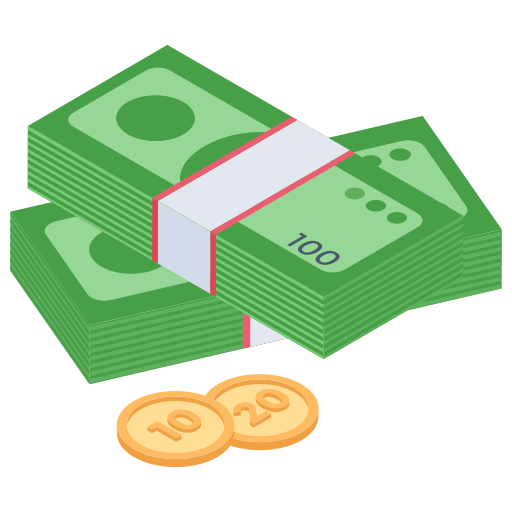
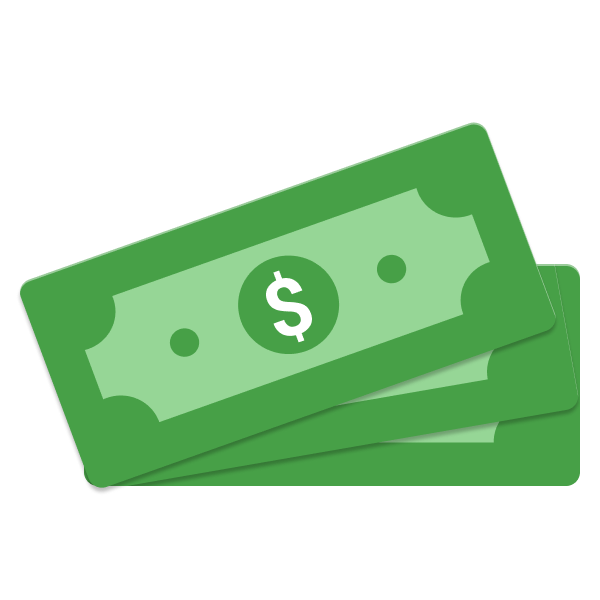
tolboriin zurag bolon nersiig oorchlov

diff --git a/pages/khyanalt/zg/[sessionId].js b/pages/khyanalt/zg/[sessionId].js
@@ -106,7 +106,7 @@ function TulburiinDelgerenguiTailan({ token }) {
             case "khaan":
               ugugdul.push({
                 ner: "Карт",
-                icon: "/cartniiZurag.png",
+                icon: "/card.png",
                 dun: element.niitDun,
                 too: element.niitToo,
                 khuvi: (Number(element.niitDun) / Number(niitDun)) * 100,
@@ -159,7 +159,7 @@ function TulburiinDelgerenguiTailan({ token }) {
               break;
             case "qpay":
               ugugdul.push({
-                ner: element._id,
+                ner: "Гадаа QR",
                 icon: "https://qpay.mn/q/img/q.png",
                 dun: element.niitDun,
                 too: element.niitToo,
@@ -168,7 +168,7 @@ function TulburiinDelgerenguiTailan({ token }) {
               break;
             case "qpayUridchilsan":
               ugugdul.push({
-                ner: "QPay QR",
+                ner: "Дотор QR",
                 icon: "https://qpay.mn/q/img/q.png",
                 dun: element.niitDun,
                 too: element.niitToo,
@@ -223,7 +223,7 @@ function TulburiinDelgerenguiTailan({ token }) {
               break;
             case "tseneglelt":
               ugugdul.push({
-                ner: "Цэнэглэлт",
+                ner: "Хэтэвч",
                 icon: "https://static.vecteezy.com/system/resources/previews/012/487/845/original/3d-wallet-floating-in-hand-isolated-on-transparent-business-man-holding-purple-purse-icon-mobile-banking-online-service-cashback-refund-loan-concept-saving-money-wealth-cartoon-3d-render-png.png",
 
                 dun: element.niitDun,
@@ -233,7 +233,7 @@ function TulburiinDelgerenguiTailan({ token }) {
               break;
             case "PosBelen":
               ugugdul.push({
-                ner: "Aндройд ПОС бэлэн",
+                ner: "ПОС бэлэн",
                 icon: "/androidPosBelen.png",
 
                 dun: element.niitDun,
@@ -243,7 +243,7 @@ function TulburiinDelgerenguiTailan({ token }) {
               break;
             case "PosCard":
               ugugdul.push({
-                ner: "Aндройд ПОС карт",
+                ner: "ПОС Карт",
                 icon: "/androidpooos.png",
 
                 dun: element.niitDun,
@@ -253,7 +253,7 @@ function TulburiinDelgerenguiTailan({ token }) {
               break;
             case "PosKhariltsakh":
               ugugdul.push({
-                ner: "Aндройд ПОС дансаар",
+                ner: "ПОС Данс",
                 icon: "/androidDansPos.png",
 
                 dun: element.niitDun,

diff --git a/components/pageComponents/zogsool/TulburiinDelgerenguiTailan.js b/components/pageComponents/zogsool/TulburiinDelgerenguiTailan.js
@@ -199,7 +199,7 @@ function TulburiinDelgerenguiTailan(
             break;
           case "qpay":
             ugugdul.push({
-              ner: element._id,
+              ner: "Гадаа QR",
               icon: "https://qpay.mn/q/img/q.png",
               dun: element.niitDun,
               too: element.niitToo,
@@ -208,7 +208,7 @@ function TulburiinDelgerenguiTailan(
             break;
           case "qpayUridchilsan":
             ugugdul.push({
-              ner: "QPay QR",
+              ner: "Дотор QR",
               icon: "https://qpay.mn/q/img/q.png",
               dun: element.niitDun,
               too: element.niitToo,
@@ -236,7 +236,7 @@ function TulburiinDelgerenguiTailan(
 
           case "tseneglelt":
             ugugdul.push({
-              ner: "Цэнэглэлт",
+              ner: "Хэтэвч",
               icon: "https://static.vecteezy.com/system/resources/previews/012/487/845/original/3d-wallet-floating-in-hand-isolated-on-transparent-business-man-holding-purple-purse-icon-mobile-banking-online-service-cashback-refund-loan-concept-saving-money-wealth-cartoon-3d-render-png.png",
               // icon: "/eWalletIcon.png",
               dun: element.niitDun,
@@ -246,7 +246,7 @@ function TulburiinDelgerenguiTailan(
             break;
           case "PosBelen":
             ugugdul.push({
-              ner: "Андройд ПОС Бэлэн",
+              ner: "ПОС Бэлэн",
               icon: "/androidPosBelen.png",
               // icon: "/eWalletIcon.png",
               dun: element.niitDun,
@@ -256,7 +256,7 @@ function TulburiinDelgerenguiTailan(
             break;
           case "PosKart":
             ugugdul.push({
-              ner: "Андройд ПОС Карт",
+              ner: "ПОС Карт",
               icon: "/androidpooos.png",
               // icon: "/eWalletIcon.png",
               dun: element.niitDun,
@@ -266,7 +266,7 @@ function TulburiinDelgerenguiTailan(
             break;
           case "PosKhariltsakh":
             ugugdul.push({
-              ner: "Андройд ПОС Дансаар",
+              ner: "ПОС Данс",
               icon: "/androidDansPos.png",
               // icon: "/eWalletIcon.png",
               dun: element.niitDun,
@@ -301,6 +301,7 @@ function TulburiinDelgerenguiTailan(
               khuvi: (Number(element.niitDun) / Number(niitDun)) * 100,
             });
             break;
+
           default:
             ugugdul.push({
               ner: element._id,

diff --git a/components/pageComponents/zogsool/AjiltniiDelgerenguiTailan.js b/components/pageComponents/zogsool/AjiltniiDelgerenguiTailan.js
@@ -416,7 +416,7 @@ function AjiltniiDelgerenguiTailan(
 
           case "PosBelen":
             ugugdul.push({
-              ner: "Андройд ПОС бэлэн",
+              ner: "ПОС Бэлэн",
               icon: "/androidPosBelen.png",
               dun: element.niitDun,
               too: element.niitToo,
@@ -425,7 +425,7 @@ function AjiltniiDelgerenguiTailan(
             break;
           case "PosCard":
             ugugdul.push({
-              ner: "Андройд ПОС карт",
+              ner: "ПОС Карт",
               turul: "PosCard",
               icon: "/androidpooos.png",
               dun: element.niitDun,
@@ -435,7 +435,7 @@ function AjiltniiDelgerenguiTailan(
             break;
           case "PosKhariltsakh":
             ugugdul.push({
-              ner: "Андройд ПОС дансаар",
+              ner: "ПОС Данс",
               turul: "PosKhariltsakh",
               icon: "/androidDansPos.png",
               dun: element.niitDun,
@@ -463,7 +463,7 @@ function AjiltniiDelgerenguiTailan(
             break;
           case "qpay":
             ugugdul.push({
-              ner: element._id,
+              ner: "Гадаа QR",
               icon: "https://qpay.mn/q/img/q.png",
               dun: element.niitDun,
               too: element.niitToo,
@@ -472,7 +472,7 @@ function AjiltniiDelgerenguiTailan(
             break;
           case "qpayUridchilsan":
             ugugdul.push({
-              ner: "QPay QR",
+              ner: "Дотор QR",
               icon: "https://qpay.mn/q/img/q.png",
               dun: element.niitDun,
               too: element.niitToo,
@@ -500,7 +500,7 @@ function AjiltniiDelgerenguiTailan(
 
           case "tseneglelt":
             ugugdul.push({
-              ner: "Цэнэглэлт",
+              ner: "Хэтэвч",
               icon: "https://static.vecteezy.com/system/resources/previews/012/487/845/original/3d-wallet-floating-in-hand-isolated-on-transparent-business-man-holding-purple-purse-icon-mobile-banking-online-service-cashback-refund-loan-concept-saving-money-wealth-cartoon-3d-render-png.png",
               // icon: "/eWalletIcon.png",
               dun: element.niitDun,